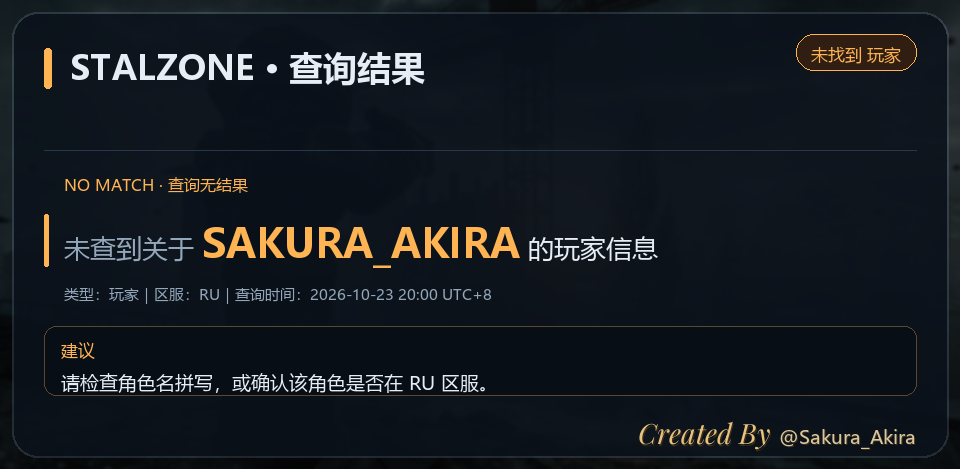
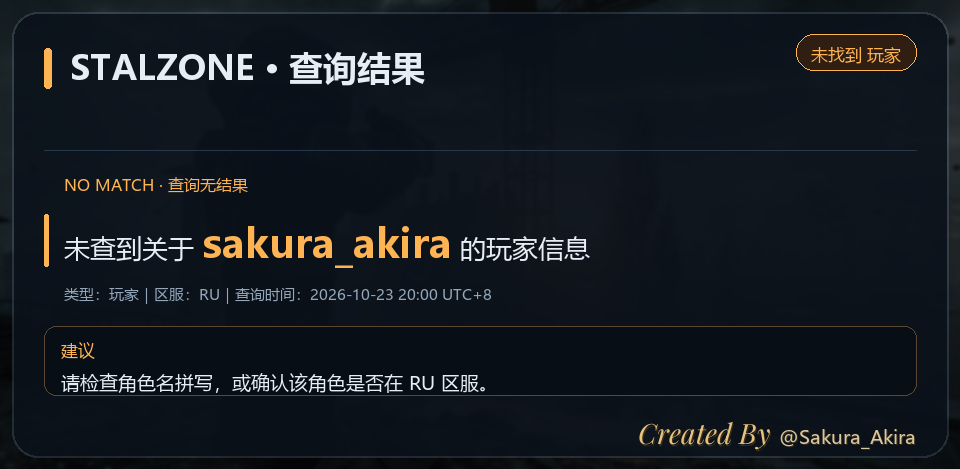
fix: polish not-found card casing and colors

Changed region(s): [[0.0625, 0.4776, 0.6875, 0.5672]]

diff --git a/main.py b/main.py
@@ -162,7 +162,7 @@ UUID_RE = re.compile(
     r"^[0-9a-fA-F]{8}-[0-9a-fA-F]{4}-[0-9a-fA-F]{4}-[0-9a-fA-F]{4}-[0-9a-fA-F]{12}$"
 )
 ITEM_ID_RE = re.compile(r"^[A-Za-z0-9_-]{1,128}$")
-PLUGIN_VERSION = "1.0.2"
+PLUGIN_VERSION = "1.0.3"
 SZ_BARE_RE = r"(?i)^\s*(?:sz|stalzone)(?:@\S+)?\s+"
 def _looks_like_image(data: bytes) -> bool:
     head = data[:16]
@@ -664,6 +664,14 @@ class StalzonePlugin(Star):
         value["display"] = display_name(value)
         return value
 
+    @staticmethod
+    def _display_query(value: str) -> str:
+        """Keep the user's casing unless the whole query was typed in caps."""
+        text = str(value or "").strip() or "未知"
+        if text.isupper():
+            return text.lower()
+        return text
+
     def _not_found(
         self,
         kind: str,
@@ -673,8 +681,7 @@ class StalzonePlugin(Star):
         note: str = "",
     ) -> PluginReply:
         """Build a query-specific empty result card instead of a generic error."""
-        specs = {
-            "player": (
+        specs = {            "player": (
                 "玩家",
                 "请检查角色名拼写与区服；也可以提供 UUID。",
             ),
@@ -696,7 +703,7 @@ class StalzonePlugin(Star):
             ),
         }
         label, default_note = specs.get(kind, ("数据", "请检查查询内容后重试。"))
-        clean = str(query or "").strip() or "未知"
+        clean = self._display_query(query)
         region_label = str(region or self._region()).upper()
         now = datetime.now(CST).strftime("%Y-%m-%d %H:%M")
         detail = note.strip() or default_note
@@ -1753,9 +1760,9 @@ class StalzonePlugin(Star):
                 if tag_only:
                     return self._not_found(
                         "clan",
-                        q_tag.upper(),
+                        q_tag,
                         region=client.region,
-                        note=f"没有找到标签 [{q_tag.upper()}] 的战队。",
+                        note=f"没有找到标签 [{q_tag}] 的战队。",
                     )
                 return self._not_found("clan", query, region=client.region)
             if len(matches) == 1:

diff --git a/tests/test_main_integration.py b/tests/test_main_integration.py
@@ -645,7 +645,7 @@ class MainSmokeTests(unittest.IsolatedAsyncioTestCase):
 
         # Four letters are always treated as a tag, never a name substring.
         text = await collect(plugin, "/sz 战队 clan")
-        self.assertIn("没有找到标签 [CLAN]", text)
+        self.assertIn("没有找到标签 [clan]", text)
 
     async def test_operations(self):
         plugin = self.make_plugin()
@@ -682,6 +682,14 @@ class MainSmokeTests(unittest.IsolatedAsyncioTestCase):
         self.assertIn("未查到关于「qqqzzzxxx999」的物品信息", result.text)
         self.assertEqual(result.notice_view["kind_label"], "物品")
         self.assertEqual(result.notice_view["query"], "qqqzzzxxx999")
+
+    def test_notice_query_casing_preserves_input(self):
+        plugin = self.make_plugin()
+        upper = plugin._not_found("player", "SAKURA_AKIRA")
+        self.assertEqual(upper.notice_view["query"], "sakura_akira")
+        mixed = plugin._not_found("player", "Sakura_Akira")
+        self.assertEqual(mixed.notice_view["query"], "Sakura_Akira")
+        self.assertIn("Sakura_Akira", mixed.text)
 
     async def test_missing_player_returns_notice_card(self):
         from api_client import NotFoundError

diff --git a/image_renderer.py b/image_renderer.py
@@ -808,7 +808,7 @@ def render_notice_card(
     )
     baseline = 258
     x = PAD + 20
-    draw.text((x, baseline), prefix, font=prefix_font, fill=MUTED, anchor="ls")
+    draw.text((x, baseline), prefix, font=prefix_font, fill=TEXT, anchor="ls")
     x += prefix_width
     draw.text((x, baseline), query_text, font=query_font, fill=accent, anchor="ls")
     x += draw.textlength(query_text, font=query_font)

diff --git a/CHANGELOG.md b/CHANGELOG.md
@@ -3,6 +3,19 @@
 All notable changes to this project are documented here.
 The project follows [Semantic Versioning](https://semver.org/).
 
+## 1.0.3 - 2026-10-23
+
+### Fixed
+
+- The not-found card no longer wraps the enlarged query in normal-sized brackets, which could collide with the query text.
+- “未查到关于” and “的…信息” now use the same text color; only the query remains highlighted.
+- All-uppercase query names are displayed in lowercase on the not-found card, while mixed-case user input is preserved. Successful queries continue to use the name returned by the API.
+- Clan tag misses now show the lowercase tag instead of forcing uppercase.
+
+### Tests
+
+- Added casing coverage for not-found queries; 146 tests pass.
+
 ## 1.0.2 - 2026-10-23
 
 ### Added

diff --git a/README.en.md b/README.en.md
@@ -7,7 +7,7 @@
 Auction · Emissions · Players · Clans · Items · Candidates · Season Pass
 
 ![AstrBot](https://img.shields.io/badge/AstrBot-plugin-5865F2?style=flat-square)
-![Version](https://img.shields.io/badge/version-1.0.2-22c55e?style=flat-square)
+![Version](https://img.shields.io/badge/version-1.0.3-22c55e?style=flat-square)
 ![Python](https://img.shields.io/badge/Python-3.10%2B-3776AB?style=flat-square)
 ![Platform](https://img.shields.io/badge/platform-QQ%20%2F%20OneBot-F97316?style=flat-square)
 ![API](https://img.shields.io/badge/data-Official%20STALZONE%20API-0EA5E9?style=flat-square)

diff --git a/README.md b/README.md
@@ -7,7 +7,7 @@
 拍卖 · 风暴 · 玩家 · 战队 · 物品 · 候选卡 · 通行证计算
 
 ![AstrBot](https://img.shields.io/badge/AstrBot-plugin-5865F2?style=flat-square)
-![Version](https://img.shields.io/badge/version-1.0.2-22c55e?style=flat-square)
+![Version](https://img.shields.io/badge/version-1.0.3-22c55e?style=flat-square)
 ![Python](https://img.shields.io/badge/Python-3.10%2B-3776AB?style=flat-square)
 ![Platform](https://img.shields.io/badge/platform-QQ%20%2F%20OneBot-F97316?style=flat-square)
 ![API](https://img.shields.io/badge/data-Official%20STALZONE%20API-0EA5E9?style=flat-square)
